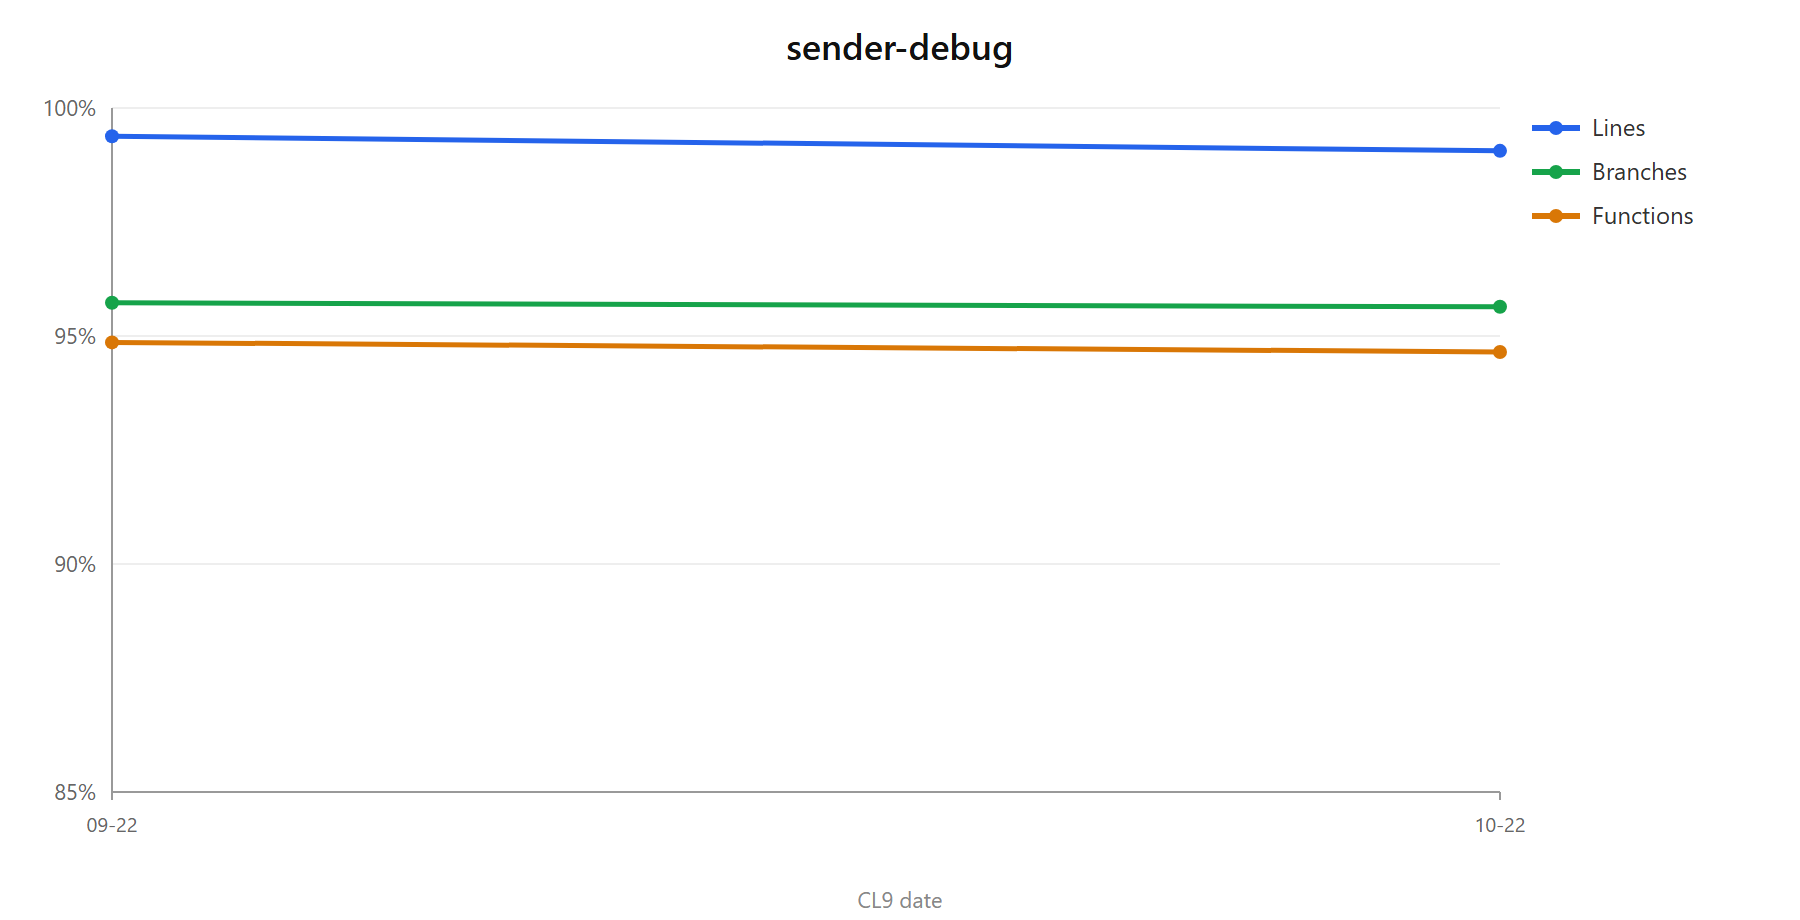
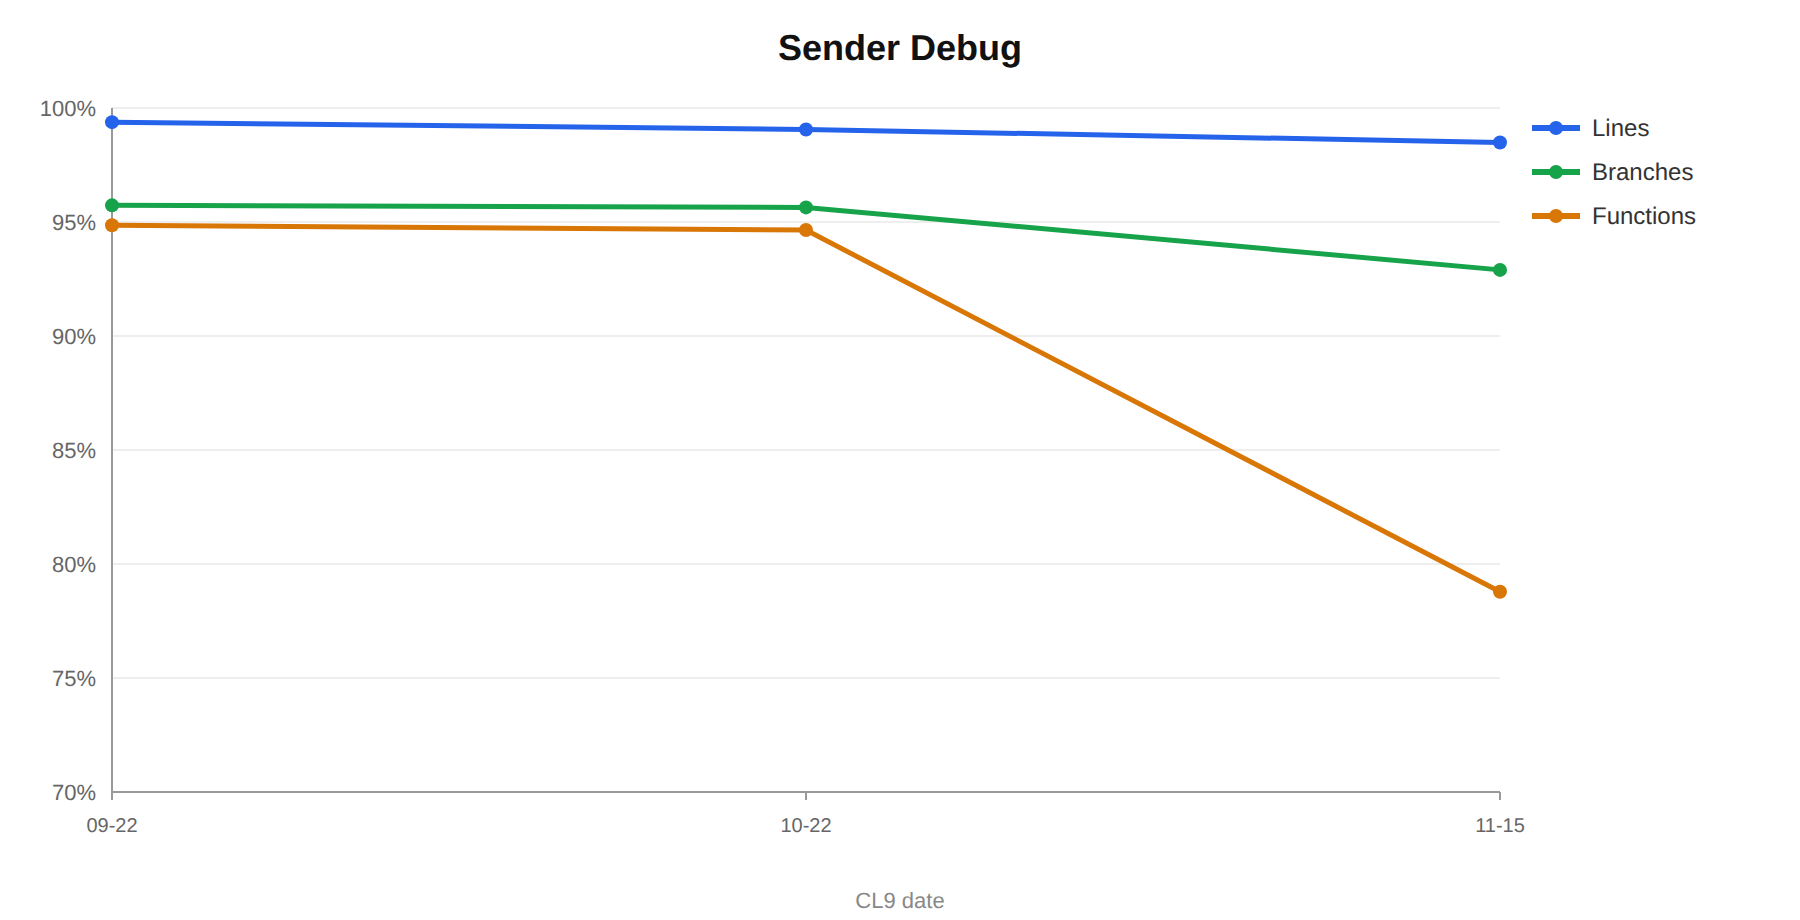
docs(qa)+plans: sender-debug 0.2.2 - test metrics (harness 48, e2e 13), S2 items 4 and 5 done

diff --git a/plugins/sender-debug/docs/qa/test-metrics-history.md b/plugins/sender-debug/docs/qa/test-metrics-history.md
@@ -12,5 +12,6 @@
 
 | Fecha | Versión / tag | Harness | Cobertura (líneas / ramas / funcs) | e2e (specs / casos) | Notas |
 |---|---|---|---|---|---|
+| 2026-11-15 | `plugin/sender-debug@0.2.2` — **S2: canal sin arrancar al estilo IRIA y Copy en el historial** | **48** (+0) | 98.49% / 92.90% / 78.78% | 1 / 13 (+1) | Los dos cambios son del front, que el harness no carga: harness sin cambios y la cobertura es la del back tal como está hoy (la caída de funciones respecto a 0.2.0 no viene de este cierre). La pestaña sin arrancar usa `ChannelNotStarted` de `kwirth-common-front` (^0.5.74): icono y nombre, la frase y un botón **Start** que hace lo del menú. Cada fila del historial gana **Copy** (Sent + Answered al portapapeles, sin desplegarla). e2e: el caso del canal sin arrancar reescrito (y su Start abre el setup), uno nuevo de Copy leyendo el portapapeles, y los Start del menú acotados a `menuitem` (el estado vacío tiene el suyo): 13 ✅ |
 | 2026-10-22 | 🔴 `plugin/sender-debug@0.2.0` — **la puerta del canal** (A12 de [auth-hardening](../../../../plans/auth-hardening/PLAN.md)) | **48** (+6) | **99.06% / 95.64% / 94.65%** | 1 / 12 (sin cambios) | Y aquí no es solo mirar: este canal **dispara envíos de verdad** por los senders configurados — un correo, un Teams, un Datadog salen de verdad. Lo entregaba el core a cualquiera que estuviese logado (`cluster: true`, y esa rama no mira la clave). Ahora exige `cluster` con su propia escalera. ⚠ **Es el primer candidato a `admin`** si se quiere más estricto, precisamente porque **actúa** en vez de observar; se queda en `cluster` por ser el mínimo acordado para este grupo de canales. 🔴 La autorización es del CANAL, no del core: capa de negocio, no técnica. Los 6 tests nuevos cubren entrar con `cluster` y con `admin`, no entrar sin scopes ni con `none`, no reventar sin accessKey, y que el rechazo diga qué falta |
 | 2026-09-22 | `plugin/sender-debug@0.1.0` | **42** | **99.38% / 95.73% / 94.86%** | 1 / 12 | **S1 — el plugin funcionando.** Canal de cluster que lista los senders instalados con sus configuraciones, compone un `ISenderMessage` a mano y lo entrega por `send()` o por `sendBatch()`, enseñando lo que el sender devuelve **o la excepción que lanza**. Eso último es el motivo del plugin: `SenderManager.send()` captura el error, lo escribe en un log del core y devuelve `undefined` — indistinguible de un envío correcto de un sender de aviso —, así que el canal llama al sender a través de `clusterInfo.senders` y captura él la excepción (mismo precedente que provider-debug con `clusterInfo.providers`). 🐛 **Hallazgo del CORE cazado por el e2e**: `SenderManager.listInstalled()` concatena el índice de instalados con los senders de dev **sin deduplicar por id**, así que en un entorno de desarrollo el mismo sender llega dos veces — y eso lo sirve también `GET /core/senders` a cualquier consumidor. Aquí se deduplica en el plugin (conservando la entrada de dev, que es la que el core resuelve por `getSender()`); el arreglo en el core queda reportado, sin tocar. 🐛 Dos e2e propios mal planteados, corregidos antes de darlos por buenos: uno asumía que `console` tiene una sola configuración (tiene dos, y son datos del entorno, no del plugin) y otro daba por hecho que una fila del historial se puede desplegar siempre (un sender de notificación pura no devuelve nada: no hay detalle, y el botón está deshabilitado a propósito). Del **QA manual** salieron dos cambios: la fila de Subject/Level/To salía escalonada (el `Select` sin `FormControl` no tenía label ni sitio para su ayuda, y su subrayado caía por su cuenta) y, sobre todo, **toda fila del historial se despliega ahora** mostrando la **petición** además de la respuesta — antes solo abrían las filas con algo que enseñar, y como la mayoría de senders devuelven `void` el desplegable quedaba apagado justo en el caso más común. La petición pasó a vivir en el historial del front (no vuelve del back) y la fila se crea **al enviar**, no al contestar. ⛔ El e2e **solo** envía por `console`, que escribe en el log del core: disparar cualquier otro sender manda avisos reales a personas reales. |

diff --git a/plans/README.md b/plans/README.md
@@ -42,7 +42,7 @@ meses después — que es exactamente lo que pasaba antes de escribir este índi
 | [ai-tools](ai-tools/PLAN.md) | las tools de IA como extensión instalable (`aitoolset`) | S4–S7; las 43 viejas ya retiradas de `common-ai` (2026-09-26) |
 | [icons](icons/PLAN.md) | aligerar el barrel de iconos | los dos que un sender pide por nombre, y el alias `/icons` en 26 `build.mjs` |
 | [provider-debug](provider-debug/PLAN.md) | canal para ver en crudo lo que emite un provider | la fase de front |
-| [sender-debug](sender-debug/PLAN.md) · [PRD](sender-debug/PRD.md) | canal para probar un sender a mano: elegir config, componer un mensaje y ver qué contestó | S1 en producción (`0.1.0`); queda el S2 de pulido. El duplicado de `listInstalled()` que cazó su e2e ya está arreglado en el core, en los **tres** managers que lo tenían |
+| [sender-debug](sender-debug/PLAN.md) · [PRD](sender-debug/PRD.md) | canal para probar un sender a mano: elegir config, componer un mensaje y ver qué contestó | En producción (`0.2.2`, 2026-11-15: canal sin arrancar al estilo IRIA y Copy en el historial); del S2 de pulido quedan el JSON coloreado, el esquema de la config a la vista y el editor de `origin`. El duplicado de `listInstalled()` que cazó su e2e ya está arreglado en el core, en los **tres** managers que lo tenían |
 | [pinocchio](pinocchio/PLAN.md) | backlog del plugin | se vacía por partes, sin fecha |
 | [geppetto](geppetto/PRD.md) | analizador LLM de propósito general (PRD) | la decisión 6; sin código todavía |
 | [pluvider](pluvider/PLAN.md) · [PRD](pluvider/PRD.md) | un plugin que además expone su información in-process | MVP en producción (agora y montag publican, provider-debug consume). **F6 cerrada**: la dirección simétrica — un **provider** puede ahora suscribirse a otro, con su fase de cableado `onProvidersReady()`. **F7 cerrada**: un provider declara a qué providers consume y el core los crea aunque ningún canal los pida. Queda la fase 2: `ask()`, `publications[]` y el descubrimiento en runtime |

diff --git a/plans/sender-debug/PLAN.md b/plans/sender-debug/PLAN.md
@@ -126,11 +126,11 @@ Queda:
    sender sin salir de la pestaña.
 3. Editor propio para `origin` (hoy solo se estampa `source` y `timestamp`; un sender que etiqueta
    por `cluster`/`namespace`/`pod` no se puede probar del todo).
-4. **Botón Copy** en cada fila del historial de envíos: copia al portapapeles lo que se ve
-   desplegado (`Sent` y `Answered`). Pedido en el QA del sender `script` (2026-11-15).
-5. **Mensaje de "channel not started"** al estilo de los plugins de IRIA (mismo texto y presentación
-   que usan ellos). Pedido junto con el punto 4: se hace la próxima vez que se toque sender-debug.
-6. **CL9 completa** al terminar el stream.
+4. ~~**Botón Copy** en cada fila del historial~~ — ✅ hecho en **0.2.2** (2026-11-15): copia `Sent` y
+   `Answered` al portapapeles sin desplegar la fila; tick verde un momento. Pedido en el QA del sender `script`.
+5. ~~**Mensaje de "channel not started"** al estilo IRIA~~ — ✅ hecho en **0.2.2** (2026-11-15):
+   `ChannelNotStarted` de `kwirth-common-front` (^0.5.74), con su botón **Start**.
+6. **CL9 completa** al terminar el stream (la de 0.2.2 hecha: e2e 13 ✅, QA validado).
 
 ## Backlog
 
